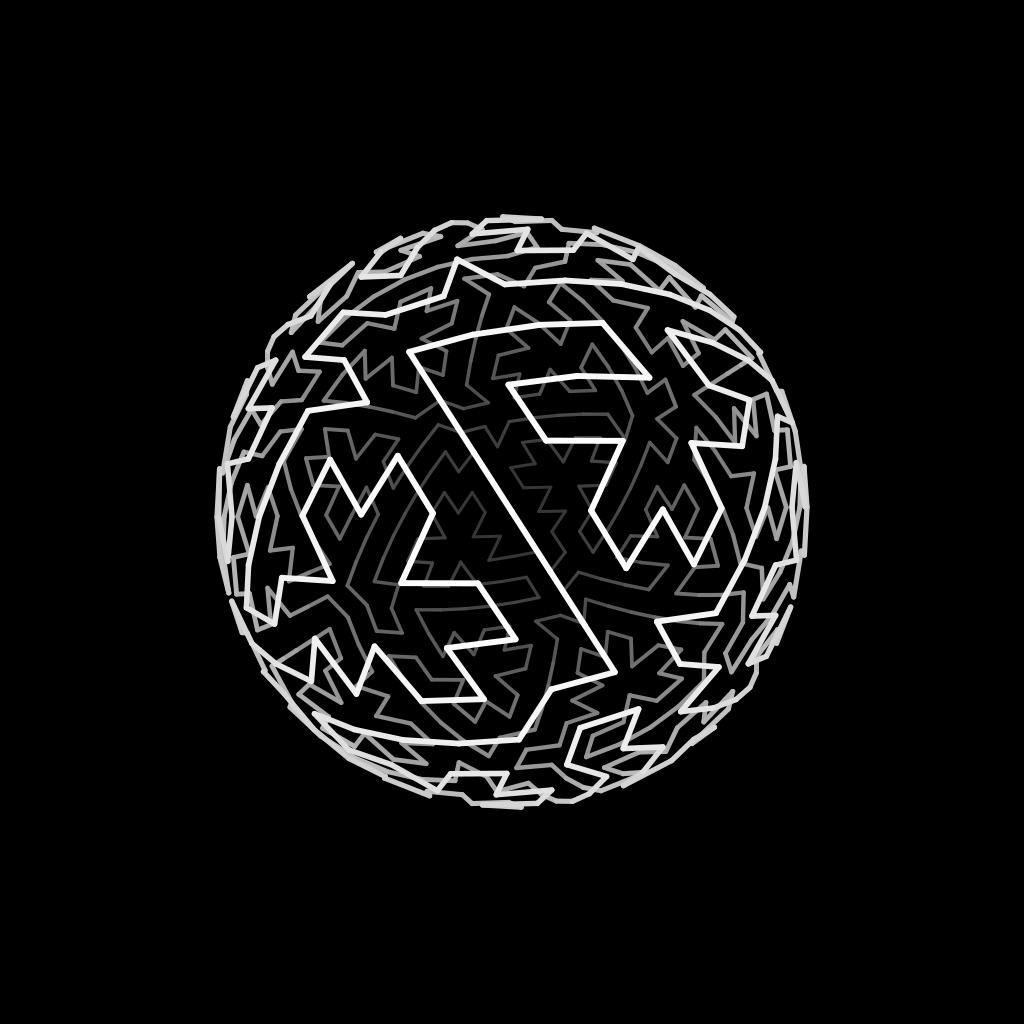
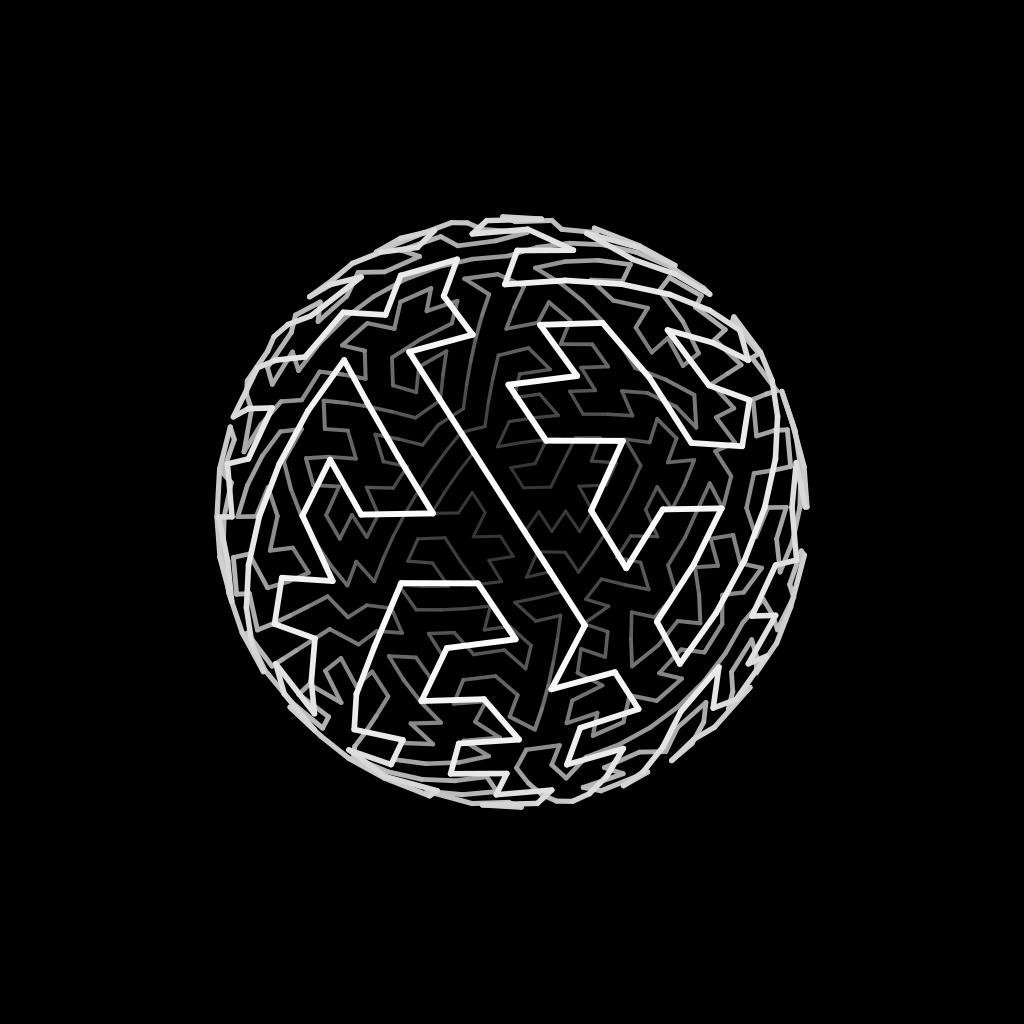
Added OR-Tools support for TSP art, as linkern only works under Windows

diff --git a/tools/tsp.py b/tools/tsp.py
@@ -1,69 +1,105 @@
-
 import numpy as np
 import subprocess
+from scipy.spatial.distance import pdist, squareform
+from ortools.constraint_solver import routing_enums_pb2, pywrapcp
 
 from geometry import *
 
 
+# See https://developers.google.com/optimization/routing/tsp
+def solve_tsp_ortools(points):
+    print('Solving TSP using OR-Tools...', end=' ')
+    distance_matrix = (squareform(pdist(points)) * 10000).astype(int)
+
+    # Setup for ortools
+    manager = pywrapcp.RoutingIndexManager(distance_matrix.shape[1], 1, 0)
+    routing = pywrapcp.RoutingModel(manager)
+
+    def distance_callback(from_index, to_index):
+        """Returns the distance between the two nodes."""
+        # Convert from routing variable Index to distance matrix NodeIndex.
+        from_node = manager.IndexToNode(from_index)
+        to_node = manager.IndexToNode(to_index)
+        return distance_matrix[from_node][to_node]
+
+    # More setup
+    transit_callback_index = routing.RegisterTransitCallback(distance_callback)
+    routing.SetArcCostEvaluatorOfAllVehicles(transit_callback_index)
+    search_parameters = pywrapcp.DefaultRoutingSearchParameters()
+    search_parameters.first_solution_strategy = routing_enums_pb2.FirstSolutionStrategy.PATH_CHEAPEST_ARC
+
+    # Solve the problem and extract route as list of indices
+    solution = routing.SolveWithParameters(search_parameters)
+    index = routing.Start(0)
+    route = [manager.IndexToNode(index)]
+    while not routing.IsEnd(index):
+        index = solution.Value(routing.NextVar(index))
+        route.append(manager.IndexToNode(index))
+
+    print('done.\n')
+    return route[:-1]
+
+
+# Remaining functions are for calling linkern.exe solver under Windows
 def write_tsp(output_path, coordinates):
-	with open(output_path, 'w') as f:
-		f.write('NAME: output\n')
-		f.write('TYPE: TSP\n')
-		f.write(f'DIMENSION: {len(coordinates)}\n')
-		f.write('EDGE_WEIGHT_TYPE: EUC_2D\n')
-		f.write('NODE_COORD_SECTION\n')
-		for i in range(len(coordinates)):
-			f.write('{i} {coordinates[i,1]} {coordinates[i,0]}\n')
-		f.write('EOF')
+    with open(output_path, 'w') as f:
+        f.write('NAME: output\n')
+        f.write('TYPE: TSP\n')
+        f.write(f'DIMENSION: {len(coordinates)}\n')
+        f.write('EDGE_WEIGHT_TYPE: EUC_2D\n')
+        f.write('NODE_COORD_SECTION\n')
+        for i in range(len(coordinates)):
+            f.write('{i} {coordinates[i,1]} {coordinates[i,0]}\n')
+        f.write('EOF')
 
 
 def write_tsp_dist(output_path, distance_matrix):
-	with open(output_path, 'w') as f:
-		f.write('NAME: output\n')
-		f.write('TYPE: TSP\n')
-		f.write(f'DIMENSION: {distance_matrix.shape[0]}\n')
-		f.write('EDGE_WEIGHT_TYPE: EXPLICIT\n')
-		f.write('EDGE_WEIGHT_FORMAT: FULL_MATRIX\n')
-		f.write('EDGE_WEIGHT_SECTION\n')
-		for i in range(distance_matrix.shape[0]):
-			for j in range(distance_matrix.shape[1]):
-				f.write(f' {int(distance_matrix[i][j])}')
-			f.write('\n')
-		f.write('EOF')
+    with open(output_path, 'w') as f:
+        f.write('NAME: output\n')
+        f.write('TYPE: TSP\n')
+        f.write(f'DIMENSION: {distance_matrix.shape[0]}\n')
+        f.write('EDGE_WEIGHT_TYPE: EXPLICIT\n')
+        f.write('EDGE_WEIGHT_FORMAT: FULL_MATRIX\n')
+        f.write('EDGE_WEIGHT_SECTION\n')
+        for i in range(distance_matrix.shape[0]):
+            for j in range(distance_matrix.shape[1]):
+                f.write(f' {int(distance_matrix[i][j])}')
+            f.write('\n')
+        f.write('EOF')
 
 
 def run_linkern(input_path, output_path, linkern_path='linkern.exe'):
-	subprocess.call([linkern_path, '-o', output_path, input_path])
+    subprocess.call([linkern_path, '-o', output_path, input_path])
 
 
 def read_cyc(input_path):
-	lines = open(input_path, 'r').read().split('\n')
-	indices = [int(line.split()[0]) for line in lines[1 : len(lines) - 1]]
-	return indices
+    lines = open(input_path, 'r').read().split('\n')
+    indices = [int(line.split()[0]) for line in lines[1 : len(lines) - 1]]
+    return indices
 
 
 def postprocess_cyc(input_path, cycle_path, output_path, size, segment_length=4, degree=4, radius=15./16., normalize_points=True):
-	points = np.load(input_path)
-	cycle = read_cyc(cycle_path)
+    points = np.load(input_path)
+    cycle = read_cyc(cycle_path)
 
-	if normalize_points:
-		height, width = size
-		center_and_scale(points, (height/2, width/2), min(height, width)/2 * radius)
+    if normalize_points:
+        height, width = size
+        center_and_scale(points, (height/2, width/2), min(height, width)/2 * radius)
 
-	points2 = np.zeros(points.shape)
-	for i in range(len(points)):
-		points2[i,:] = points[cycle[i],:]
+    points2 = np.zeros(points.shape)
+    for i in range(len(points)):
+        points2[i,:] = points[cycle[i],:]
 
-	final_points = []
-	for i in range(len(cycle)):
-		p1 = points[cycle[i],:]
-		p2 = points[cycle[(i+1) % len(cycle)],:]
+    final_points = []
+    for i in range(len(cycle)):
+        p1 = points[cycle[i],:]
+        p2 = points[cycle[(i+1) % len(cycle)],:]
 
-		d = np.sqrt(np.sum(np.square(p1 - p2)))
-		subdivisions = int(np.ceil(d / segment_length))
+        d = np.sqrt(np.sum(np.square(p1 - p2)))
+        subdivisions = int(np.ceil(d / segment_length))
 
-		for j in range(subdivisions):
-			t = i + float(j)/subdivisions
-			final_points.append(de_boor(t, points2, degree))
+        for j in range(subdivisions):
+            t = i + float(j)/subdivisions
+            final_points.append(de_boor(t, points2, degree))
 
-	np.save(output_path, np.array(final_points))
+    np.save(output_path, np.array(final_points))

diff --git a/pieces/lineart_3d/icosphere_snails.py b/pieces/lineart_3d/icosphere_snails.py
@@ -1,5 +1,4 @@
 import numpy as np
-from scipy.spatial import distance_matrix
 
 import sys
 sys.path.insert(0, '../../tools')
@@ -22,9 +21,10 @@ def genererate_points():
 
 def solve_tsp():
     points = np.load(f'{name}.npy')
-    write_tsp_dist(f'{name}.tsp', distance_matrix(points, points) * 10000)
-    run_linkern(f'{name}.tsp', f'{name}.cyc', '../../tools/linkern.exe')
-    order = read_cyc(f'{name}.cyc')
+    # write_tsp_dist(f'{name}.tsp', squareform(pdist(points, points)) * 10000)
+    # run_linkern(f'{name}.tsp', f'{name}.cyc', '../../tools/linkern.exe')
+    # order = read_cyc(f'{name}.cyc')
+    order = solve_tsp_ortools(points)
     points = points[np.array(order)]
     np.save(f'{name}.npy', points)
 
@@ -40,7 +40,7 @@ def make_frame(t):
     points = np.load(f'{name}.npy') * r
 
     # line progress
-    segments = interval_progresses(progress, duration, ['ease_out', 'ease_in']*(duration//2))
+    segments = interval_progresses(progress, duration, ['hermite', 'hermite']*(duration//2))
     phase = np.floor(sum(segments)) % 4
     f_even = sum(segments[::4] + segments[1::4]) % 1
     f_odd = sum(segments[2::4] + segments[3::4]) % 1
@@ -94,9 +94,9 @@ def make_frame(t):
 
 # Render animation
 if __name__ == '__main__':
-    # genererate_points()
-    # solve_tsp()
+    genererate_points()
+    solve_tsp()
 
     save_poster(name, make_frame)
-    # render_webm(name, make_frame, duration, webm_params)
-    # convert_to_mp4(name, mp4_params)
+    render_webm(name, make_frame, duration, webm_params)
+    convert_to_mp4(name, mp4_params)
